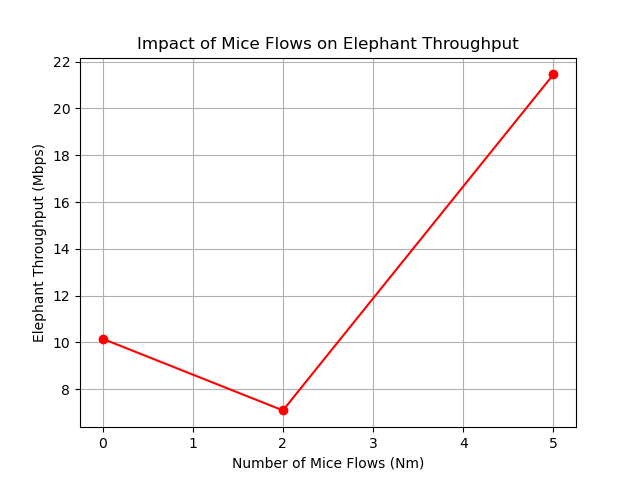
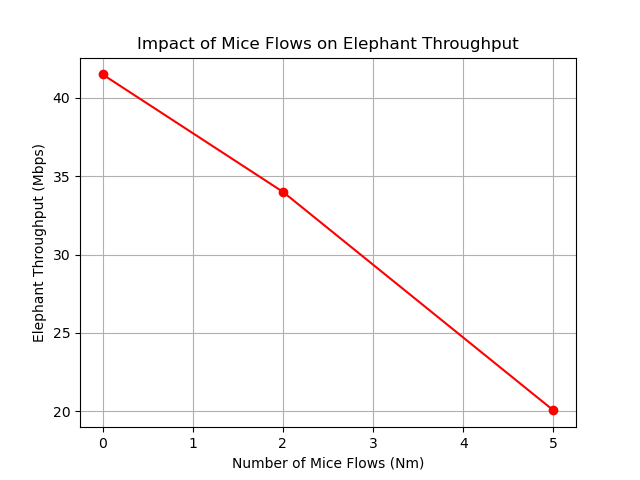
Update

diff --git a/ComputerNetworks/Lab4/mouse.py b/ComputerNetworks/Lab4/mouse.py
@@ -1,6 +1,6 @@
 import time, subprocess, random, sys
 
-t_expt = 40
+t_expt = 10
 mouse_file = sys.argv[1]
 start_time = time.time()
 

diff --git a/ComputerNetworks/Lab4/elephant.py b/ComputerNetworks/Lab4/elephant.py
@@ -1,6 +1,6 @@
 import time, subprocess
 
-t_expt = 40
+t_expt = 10
 start_time = time.time()
 total_bytes = 0
 

diff --git a/ComputerNetworks/Lab4/report.md b/ComputerNetworks/Lab4/report.md
@@ -15,3 +15,93 @@ mouse file sizes.
 4) Submit your findings in the form of a report with the codes attached. You will
 receive extra credit on the basis of correctness and completeness of your findings for
 the optional exercise.
+### Solution
+#### ```elephant.py :```
+```
+import time, subprocess
+
+t_expt = 10
+start_time = time.time()
+total_bytes = 0
+
+while time.time() - start_time < t_expt:
+    cmd = ["curl", "-s", "ftp://192.0.2.1:2121/elephant.data", "-o", "/dev/null", "-w", "%{size_download}"]
+    result = subprocess.run(cmd, capture_output=True, text=True)
+    try:
+        total_bytes += int(result.stdout.strip())
+    except ValueError:
+        pass
+        
+actual_time = time.time() - start_time
+
+# Safeguard: if actual_time is somehow 0, force it to a small decimal
+if actual_time <= 0:
+    actual_time = 0.001
+    
+throughput_mbps = (total_bytes * 8) / (actual_time * 1000000)
+print(throughput_mbps)
+```
+- ```t_expt``` here is the target duration for the experiment, where the while loop checks whether the time is over or not
+- Here, we are loading an elephant flow via a TCP network to achieve full bandwidth saturation and fill the router queues.
+- After the transfer finishes, it calculates the actual network speed (throughput) in Mbps and prints it so control.py can read it.
+
+#### ```mouse.py :```
+```
+import time, subprocess, random, sys
+
+t_expt = 10
+mouse_file = sys.argv[1]
+start_time = time.time()
+
+with open("mouse_log.txt", "a") as f:
+    while time.time() - start_time < t_expt:
+        gap = random.expovariate(1.0 / 0.5) 
+        time.sleep(gap)
+        
+        t_start = time.time()
+        subprocess.run(["scp", "-q", "-o", "StrictHostKeyChecking=no", mouse_file, "breadjam@192.0.2.1:/tmp/"])
+        t_end = time.time()
+        
+        f.write(f"{t_start},{t_end},{mouse_file}\n")
+```
+- We also have a target duration here ```t_expt``` to match the elephant flow
+- ```mouse.py``` receives the target filename ```mouse.txt``` as a command-line argument from ```control.py```
+- We use ```random.expovariate``` to create random sleep gaps between transfers, which mimics real-world unpredictable network traffic
+- We know that mouse flows usually take very little time to transfer, so this logs the exact start and end timestamps of each tiny burst
+#### ```control.py :```
+```
+import subprocess
+import matplotlib.pyplot as plt
+
+N_m_values = [0, 2, 5]
+throughputs = []
+
+for N_m in N_m_values:
+    print(f"Testing with N_m = {N_m} mice...")
+    mice = [subprocess.Popen(["python3", "mouse.py", "mouse.txt"]) for _ in range(N_m)]
+    elephant = subprocess.Popen(["python3", "elephant.py"], stdout=subprocess.PIPE, text=True)
+    
+    out, _ = elephant.communicate()
+    try:
+        throughputs.append(float(out.strip()))
+    except ValueError:
+        throughputs.append(0.0)
+    
+    for m in mice:
+        m.wait()
+        
+plt.plot(N_m_values, throughputs, marker='o', linestyle='-', color='r')
+plt.xlabel("Number of Mice Flows (Nm)")
+plt.ylabel("Elephant Throughput (Mbps)")
+plt.title("Impact of Mice Flows on Elephant Throughput")
+plt.grid(True)
+plt.savefig("throughput_plot.png")
+print("Graph saved as throughput_plot.png")
+```
+- This master script runs the experiment by launching the single elephant script and Nm copies of the mouse script simultaneously
+- It repeats the test for 0, 2, and 5 parallel mice flows
+- Finally, it collects the throughput outputs and plots them into a graph using ```matplotlib```
+#### Observations
+- As the number of competing mice flows increases, the network speed (throughput) of the elephant flow decreases
+- This proves TCP Congestion Control works. When the random mice flows cause congestion and saturate the network buffers, the elephant flow detects the packet delays and automatically scales back its transmission speed to share the bandwidth fairly
+![throughput-plot](https://i.ibb.co/TBQ1Df07/throughput-plot.png)

diff --git a/ComputerNetworks/Lab4/lab.md b/ComputerNetworks/Lab4/lab.md
@@ -89,4 +89,10 @@ Now we will check for ```Elephant Flow```, in ```tab2``` again:
 sudo ip netns exec NetNsB sudo -u breadjam scp elephant.data breadjam@192.0.2.1:~/
 ```
 In Elephant flow we can see a lot of Transactions in Wireshark and it took a bit time to load also
-
+#### Optional Excersice
+```
+\\tab1
+sudo ip netns exec NetNsA python3 -m pyftpdlib -p 2121 -d ~/ &
+\\tab2
+sudo ip netns exec NetNsB sudo -u breadjam python3 control.py
+```
